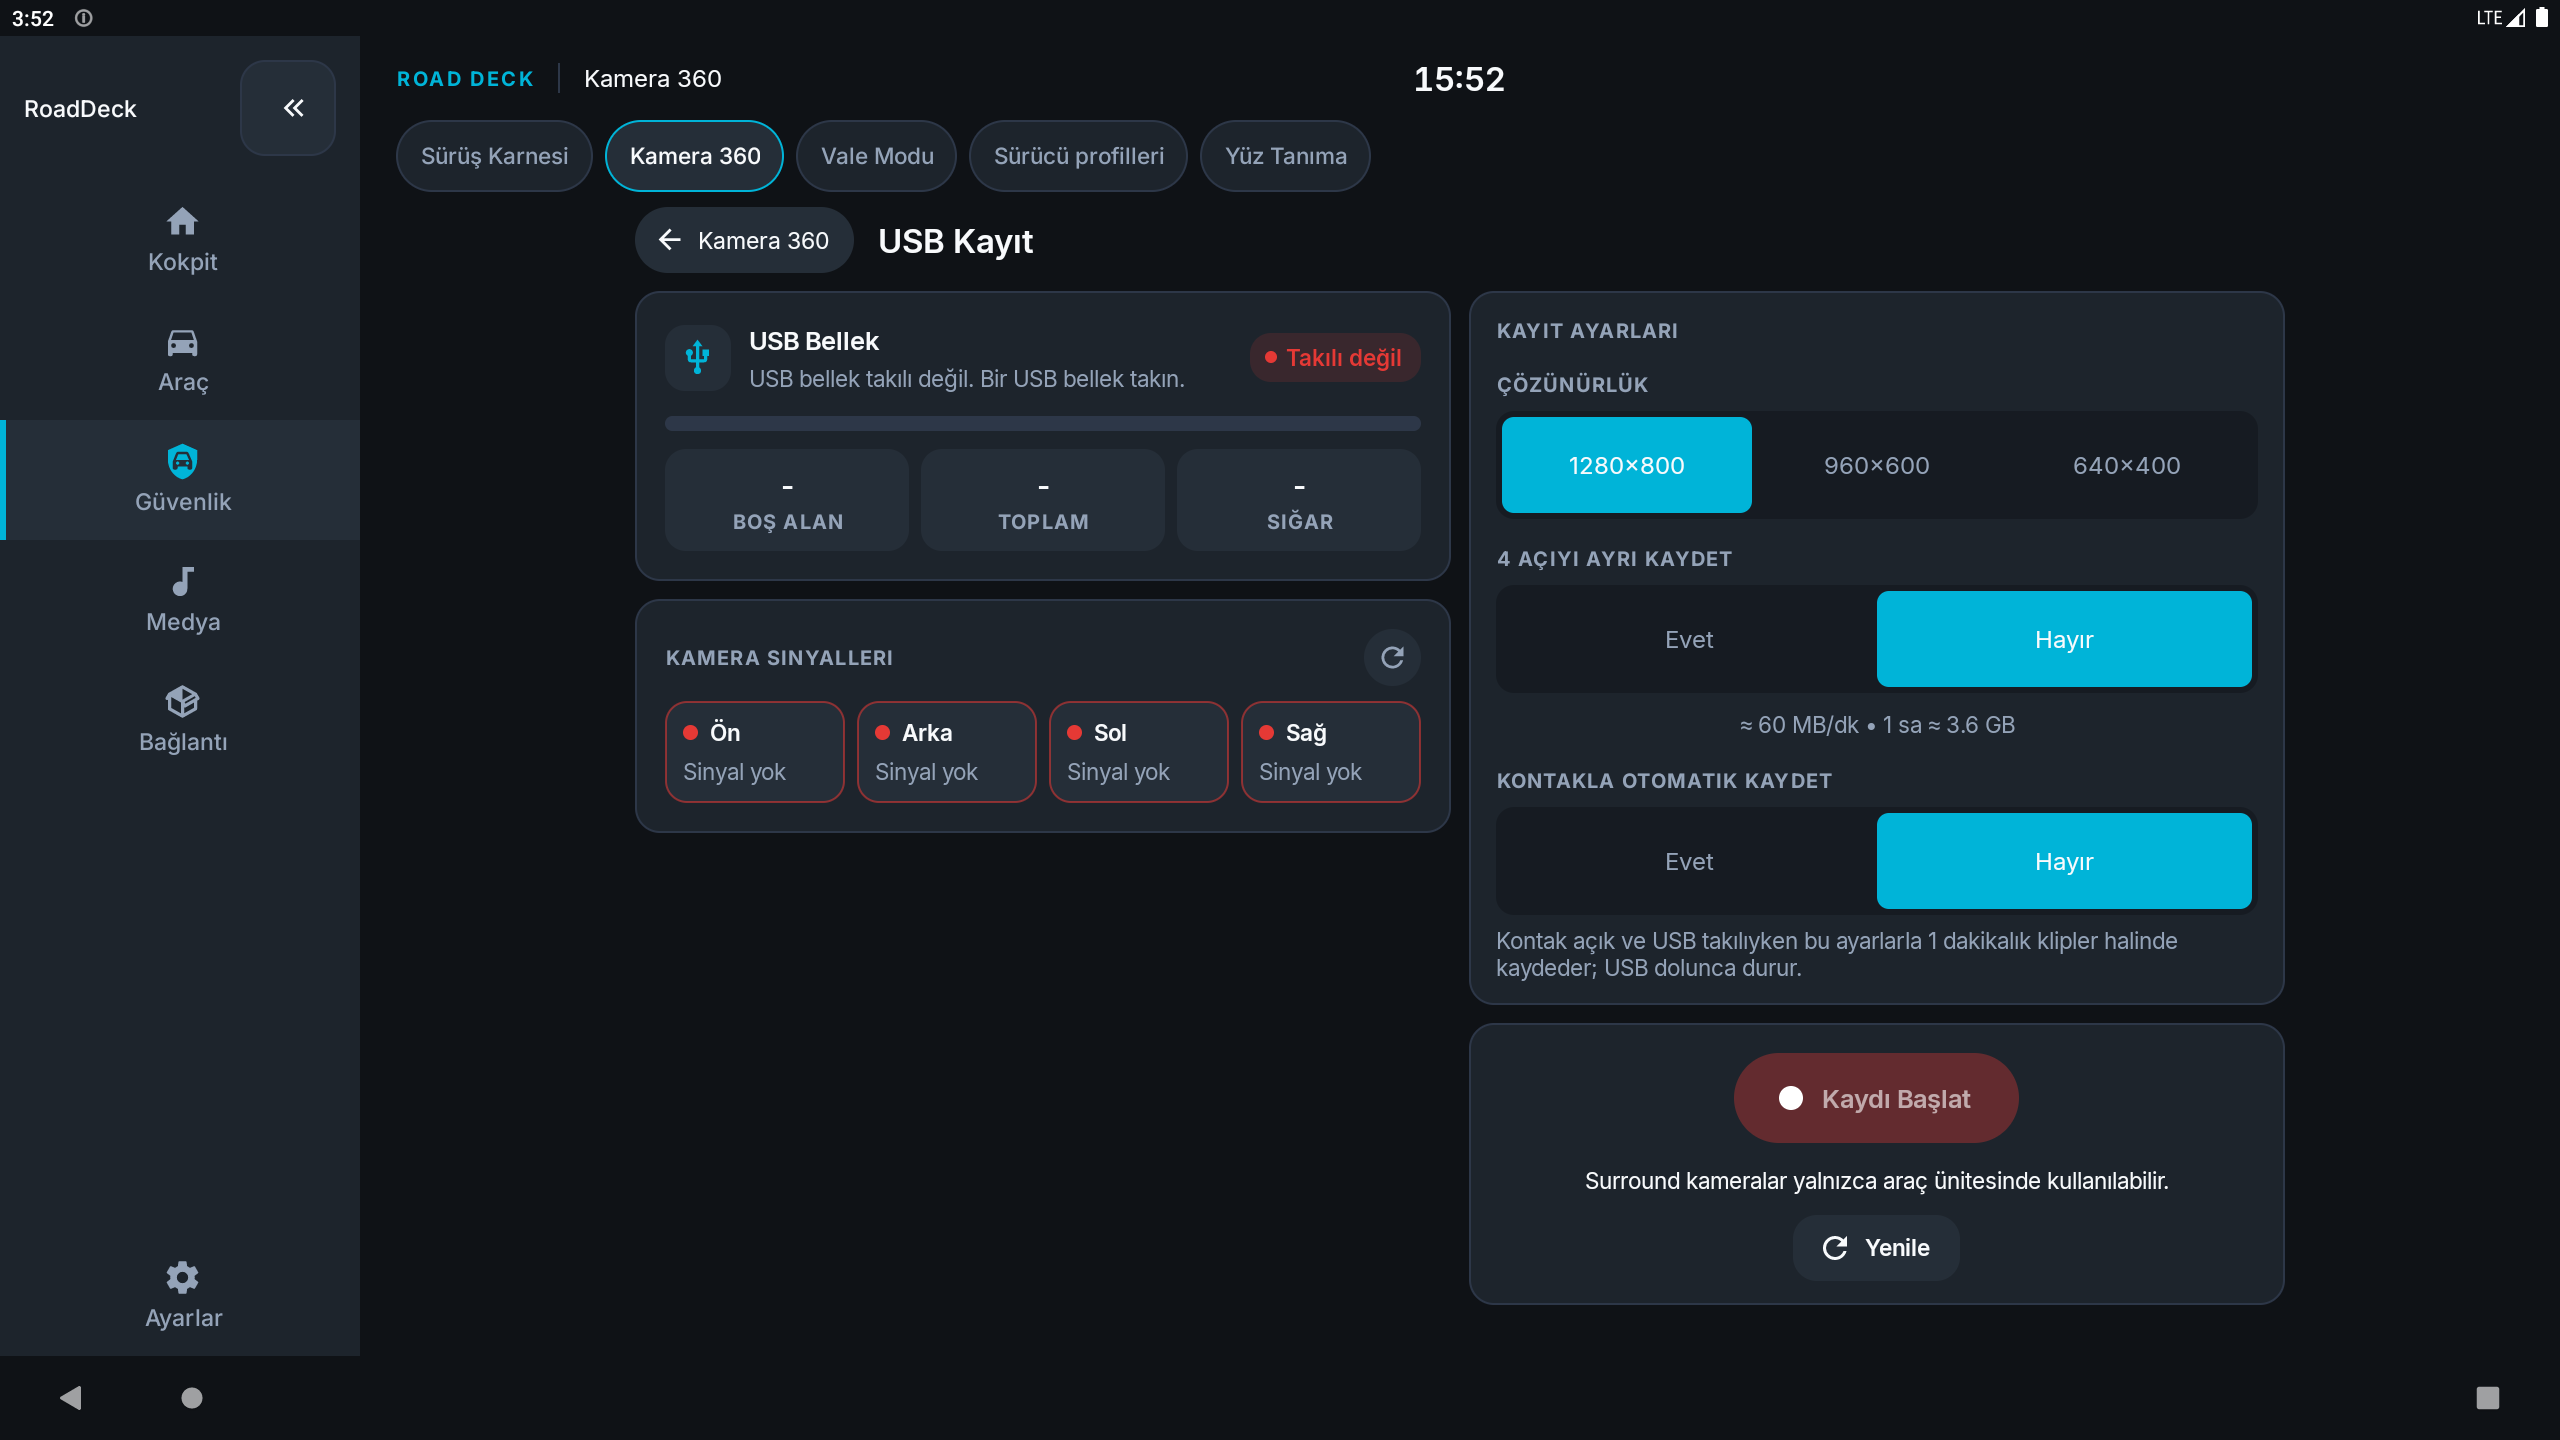
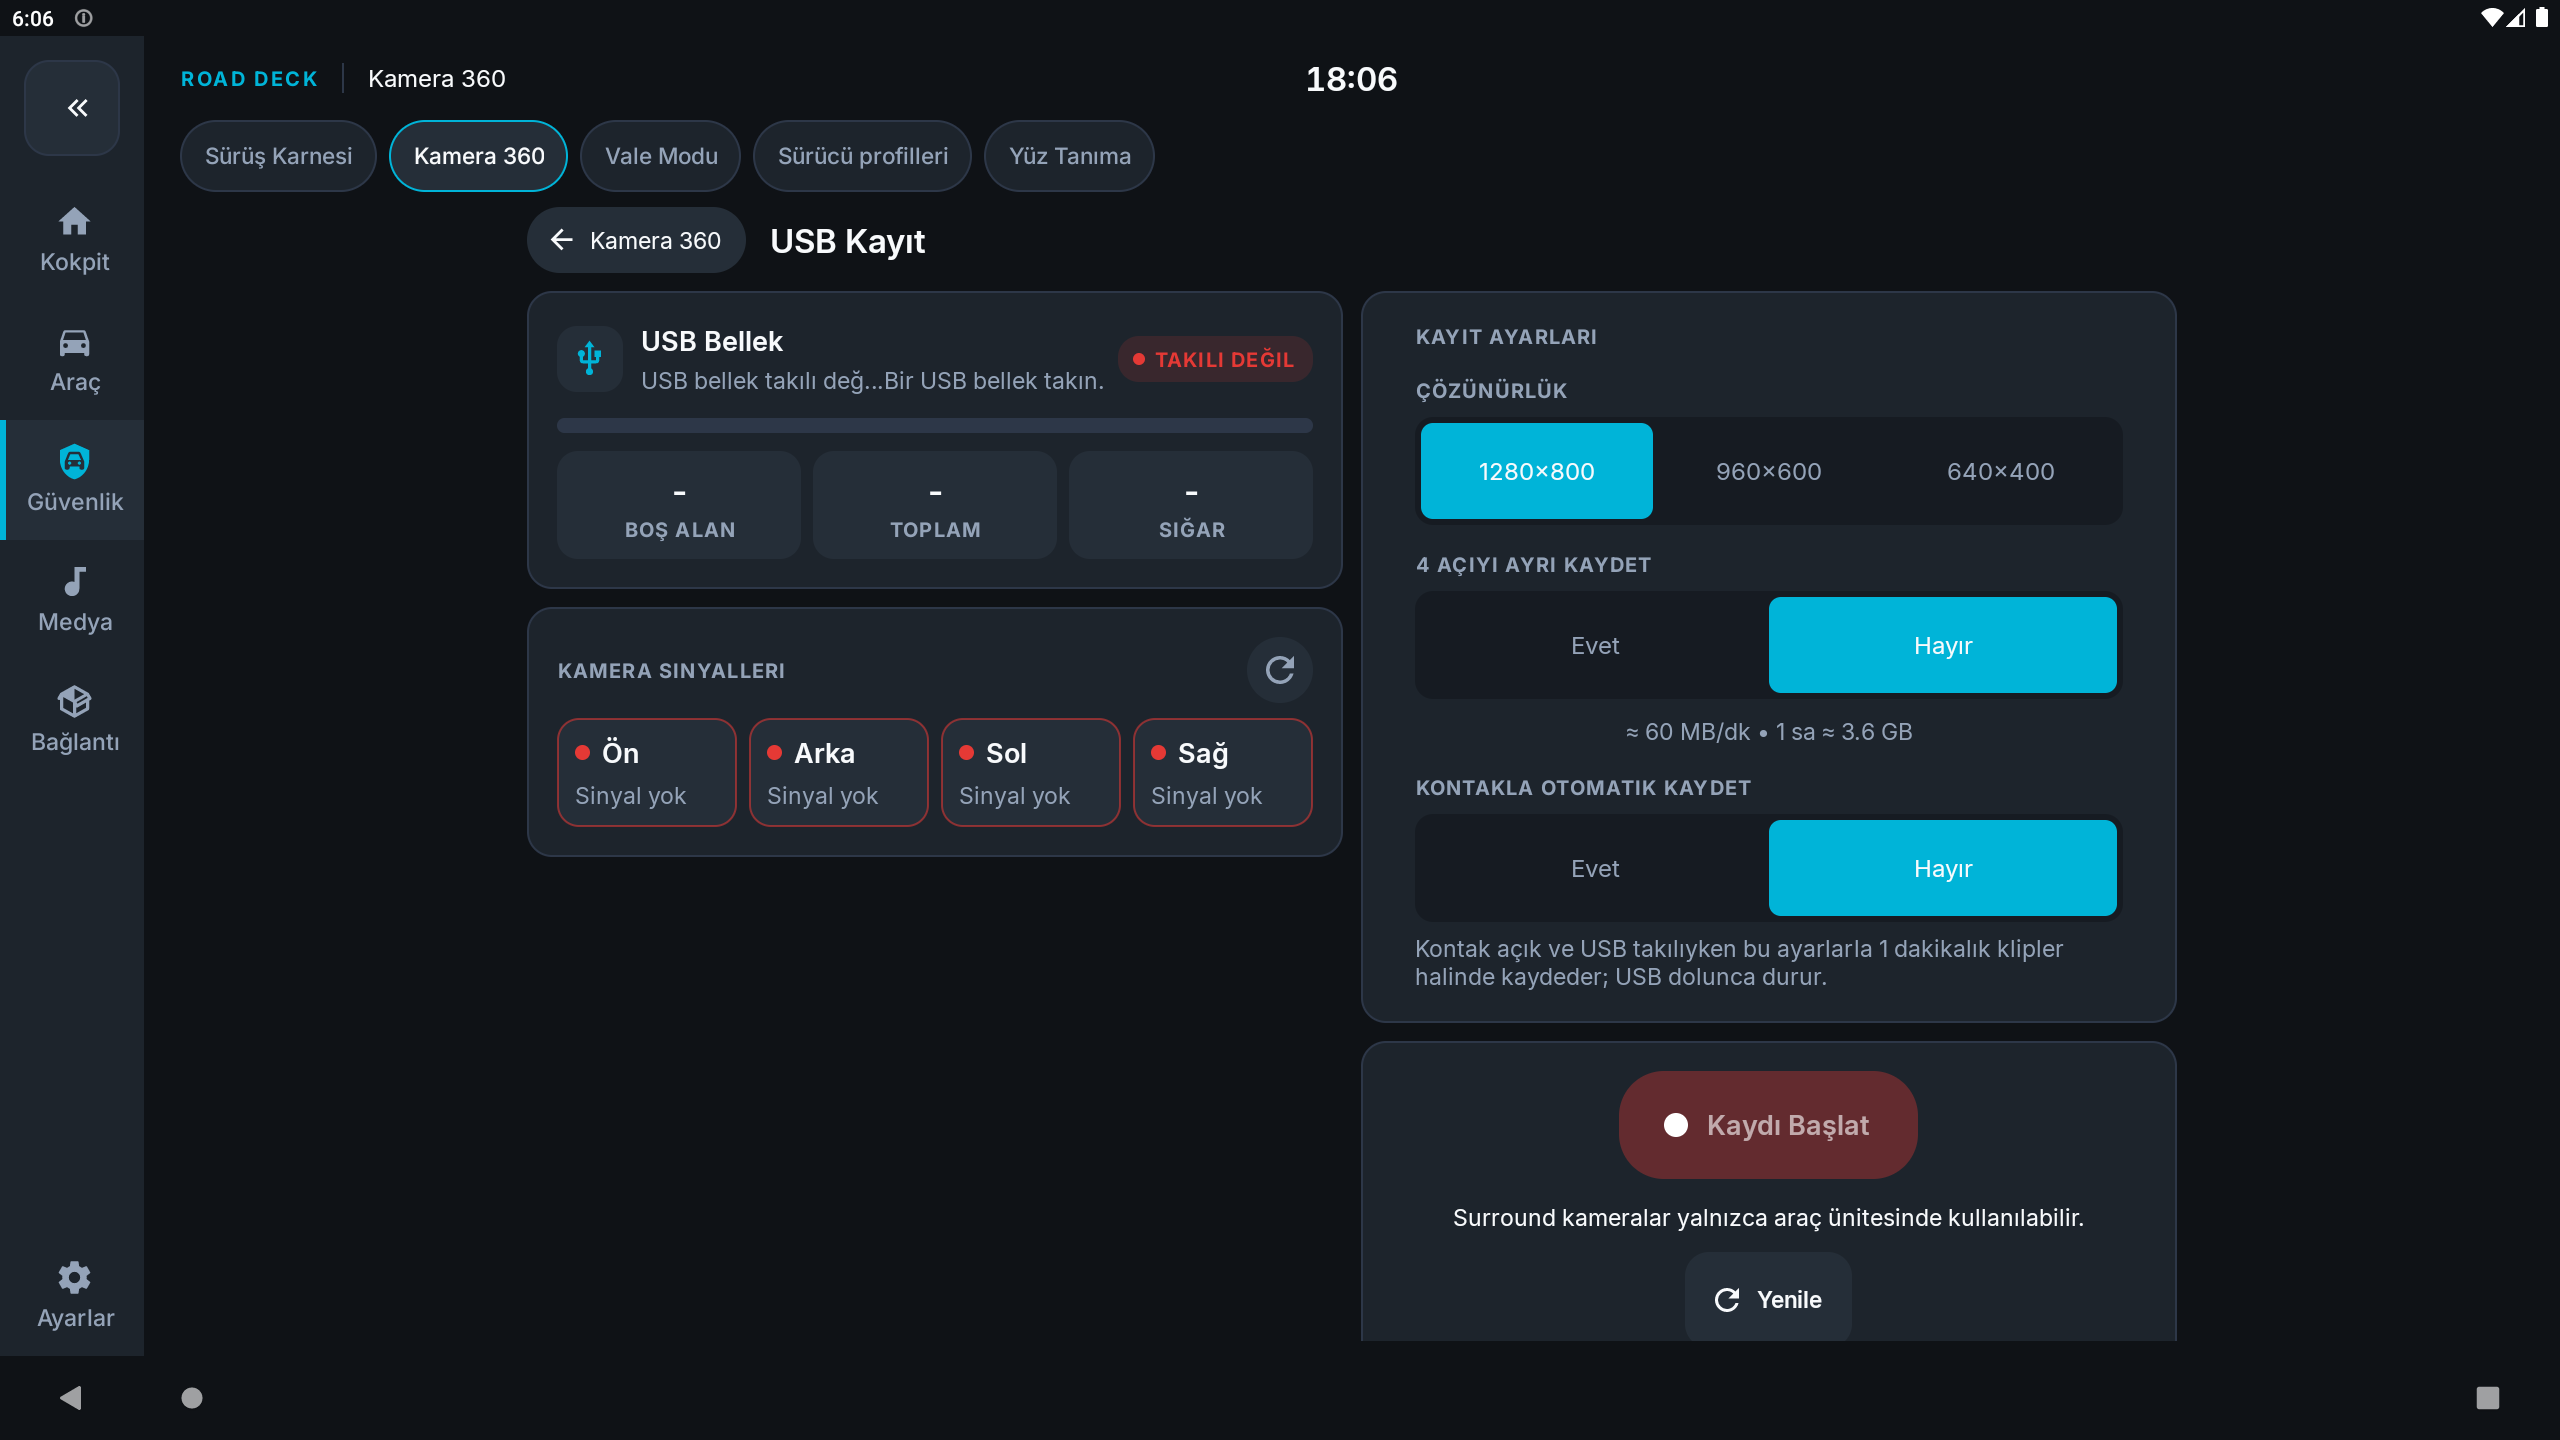
feat: Kamera 360 kayit/onizleme ic kontrol polish
- USB karti baslik/path/stat rolleri token tipografi
- Kamera sinyal tile isimleri 18sp, durum bodySm
- Kayit ayarlari/otomatik notlari bodySm
- Kayit butonu 18sp/64dp, Yenile secondary 64dp
- Header/menu callbackleri ve SurfaceView akisi korundu

diff --git a/app/src/main/java/com/mapcontrol/ui/builder/Camera360TabBuilder.java b/app/src/main/java/com/mapcontrol/ui/builder/Camera360TabBuilder.java
@@ -816,7 +816,7 @@ public class Camera360TabBuilder {
 
         statusView = new TextView(context);
         statusView.setText(R.string.camera360_hint);
-        statusView.setTextSize(13);
+        CockpitTokens.bodySm(statusView);
         statusView.setMaxLines(2);
         statusView.setEllipsize(TextUtils.TruncateAt.END);
         statusView.setTextColor(themeColor(R.color.textSecondaryCool));
@@ -940,14 +940,12 @@ public class Camera360TabBuilder {
 
         TextView heroTitle = new TextView(context);
         heroTitle.setText(R.string.camera360_usb_title2);
-        heroTitle.setTextSize(17);
-        heroTitle.setTypeface(null, Typeface.BOLD);
-        heroTitle.setTextColor(themeColor(R.color.textPrimary));
+        CockpitTokens.title(heroTitle);
         titles.addView(heroTitle);
 
         usbPathView = new TextView(context);
-        usbPathView.setTextSize(12);
-        usbPathView.setTextColor(themeColor(R.color.textSecondary));
+        CockpitTokens.mono(usbPathView);
+        usbPathView.setTextColor(CockpitTokens.color(context, R.color.ck_text_medium));
         usbPathView.setSingleLine(true);
         usbPathView.setEllipsize(TextUtils.TruncateAt.MIDDLE);
         LinearLayout.LayoutParams pathP = new LinearLayout.LayoutParams(
@@ -969,8 +967,7 @@ public class Camera360TabBuilder {
         statePill.addView(usbDot, dotP);
 
         usbStateView = new TextView(context);
-        usbStateView.setTextSize(13);
-        usbStateView.setTypeface(null, Typeface.BOLD);
+        CockpitTokens.labelCaps(usbStateView);
         statePill.addView(usbStateView);
         setDot(COLOR_IDLE);
 
@@ -1023,7 +1020,7 @@ public class Camera360TabBuilder {
         setPressableBackground(signalsRefresh, oval(themeColor(R.color.surfaceCardInner)), 19);
         signalsRefresh.setContentDescription(context.getString(R.string.camera360_refresh));
         signalsRefresh.setOnClickListener(v -> recheckCameras());
-        head.addView(signalsRefresh, new LinearLayout.LayoutParams(dp(38), dp(38)));
+        head.addView(signalsRefresh, new LinearLayout.LayoutParams(dp(44), dp(44)));
 
         LinearLayout camRow = new LinearLayout(context);
         camRow.setOrientation(LinearLayout.HORIZONTAL);
@@ -1058,16 +1055,13 @@ public class Camera360TabBuilder {
 
             TextView label = new TextView(context);
             label.setText(camShortName(cam));
-            label.setTextSize(15);
-            label.setTypeface(null, Typeface.BOLD);
-            label.setTextColor(themeColor(R.color.textPrimary));
+            CockpitTokens.title(label);
             label.setSingleLine(true);
             top.addView(label);
 
             TextView state = new TextView(context);
             state.setText(R.string.camera360_sig_wait);
-            state.setTextSize(12);
-            state.setTextColor(themeColor(R.color.textSecondary));
+            CockpitTokens.bodySm(state);
             state.setSingleLine(true);
             state.setEllipsize(TextUtils.TruncateAt.END);
             LinearLayout.LayoutParams stateP = new LinearLayout.LayoutParams(
@@ -1081,7 +1075,6 @@ public class Camera360TabBuilder {
 
     private LinearLayout buildSettingsCard(boolean wide) {
         LinearLayout card = card();
-        card.setPadding(dp(2), dp(16), dp(2), dp(14));
         TextView label = sectionLabel(R.string.camera360_settings_title);
         int labelInset = UiStyles.dimenPx(context, R.dimen.spacing_medium);
         label.setPadding(labelInset, 0, labelInset, 0);
@@ -1154,8 +1147,7 @@ public class Camera360TabBuilder {
         hideSegmentHelp(sepColumn);
 
         estimateView = new TextView(context);
-        estimateView.setTextSize(13);
-        estimateView.setTextColor(themeColor(R.color.textSecondaryCool));
+        CockpitTokens.bodySm(estimateView);
         estimateView.setGravity(Gravity.CENTER);
         LinearLayout.LayoutParams estP = new LinearLayout.LayoutParams(
                 LinearLayout.LayoutParams.MATCH_PARENT, LinearLayout.LayoutParams.WRAP_CONTENT);
@@ -1180,13 +1172,14 @@ public class Camera360TabBuilder {
         hideSegmentHelp(usbAutoColumn);
         TextView autoNote = new TextView(context);
         autoNote.setText(R.string.camera360_usb_auto_note);
-        autoNote.setTextSize(12);
-        autoNote.setTextColor(themeColor(R.color.textSecondaryCool));
+        CockpitTokens.bodySm(autoNote);
+        autoNote.setTextColor(CockpitTokens.color(context, R.color.ck_text_medium));
         autoNote.setPadding(labelInset, dp(6), labelInset, 0);
         usbAutoColumn.addView(autoNote);
         usbAutoStatus = new TextView(context);
-        usbAutoStatus.setTextSize(13);
-        usbAutoStatus.setTypeface(null, Typeface.BOLD);
+        CockpitTokens.bodySm(usbAutoStatus);
+        usbAutoStatus.setTypeface(CockpitTokens.inter(context,
+                CockpitTokens.WEIGHT_SEMIBOLD));
         usbAutoStatus.setPadding(labelInset, dp(6), labelInset, 0);
         usbAutoStatus.setVisibility(View.GONE);
         usbAutoColumn.addView(usbAutoStatus);
@@ -1223,8 +1216,8 @@ public class Camera360TabBuilder {
 
         recButton = new Button(context);
         recButton.setAllCaps(false);
-        recButton.setTextSize(17);
-        recButton.setTypeface(null, Typeface.BOLD);
+        recButton.setTextSize(18);
+        recButton.setTypeface(CockpitTokens.inter(context, CockpitTokens.WEIGHT_SEMIBOLD));
         recButton.setTextColor(new ColorStateList(
                 new int[][]{{-android.R.attr.state_enabled}, {}},
                 new int[]{0x99FFFFFF, Color.WHITE}));
@@ -1241,12 +1234,12 @@ public class Camera360TabBuilder {
         setRecButtonRecording(false);
         recButton.setOnClickListener(v -> toggleRecording());
         card.addView(recButton, new LinearLayout.LayoutParams(
-                LinearLayout.LayoutParams.WRAP_CONTENT, dp(60)));
+                LinearLayout.LayoutParams.WRAP_CONTENT,
+                CockpitTokens.dim(context, R.dimen.ck_touch_primary)));
 
         usbBlockedNote = new TextView(context);
         usbBlockedNote.setText(R.string.camera360_usb_blocked_internal);
-        usbBlockedNote.setTextSize(13);
-        usbBlockedNote.setTypeface(null, Typeface.BOLD);
+        CockpitTokens.bodySm(usbBlockedNote);
         usbBlockedNote.setGravity(Gravity.CENTER);
         usbBlockedNote.setTextColor(COLOR_WAIT);
         usbBlockedNote.setPadding(dp(12), dp(8), dp(12), dp(8));
@@ -1259,7 +1252,7 @@ public class Camera360TabBuilder {
 
         recStatusView = new TextView(context);
         recStatusView.setText(R.string.camera360_rec_hint);
-        recStatusView.setTextSize(14);
+        CockpitTokens.bodySm(recStatusView);
         recStatusView.setGravity(Gravity.CENTER);
         recStatusView.setTextColor(themeColor(R.color.textPrimary));
         LinearLayout.LayoutParams rsp = new LinearLayout.LayoutParams(
@@ -1270,15 +1263,16 @@ public class Camera360TabBuilder {
         Button refresh = new Button(context);
         refresh.setText(R.string.camera360_refresh);
         refresh.setAllCaps(false);
-        refresh.setTextSize(14);
-        refresh.setTextColor(themeColor(R.color.textPrimary));
-        UiStyles.styleOemButton(refresh, themeColor(R.color.buttonSecondaryMuted));
+        refresh.setTextSize(15);
+        refresh.setTextColor(CockpitTokens.color(context, R.color.ck_text_high));
+        UiStyles.styleOemButton(refresh, CockpitTokens.color(context, R.color.ck_surface_2));
         UiStyles.setButtonStartIconTinted(refresh, R.drawable.ic_mdi_refresh,
                 themeColor(R.color.textPrimary), dp(8));
         refresh.setStateListAnimator(null);
         refresh.setPadding(dp(16), 0, dp(20), 0);
         LinearLayout.LayoutParams rp = new LinearLayout.LayoutParams(
-                LinearLayout.LayoutParams.WRAP_CONTENT, dp(44));
+                LinearLayout.LayoutParams.WRAP_CONTENT,
+                CockpitTokens.dim(context, R.dimen.ck_touch_min));
         rp.setMargins(0, dp(12), 0, 0);
         refresh.setOnClickListener(v -> refreshUsbInfo());
         card.addView(refresh, rp);
@@ -1313,19 +1307,14 @@ public class Camera360TabBuilder {
         parent.addView(box, boxP);
         TextView value = new TextView(context);
         value.setText("-");
-        value.setTextSize(19);
-        value.setTypeface(null, Typeface.BOLD);
+        CockpitTokens.headlineSm(value);
         value.setGravity(Gravity.CENTER);
         value.setSingleLine(true);
-        value.setTextColor(themeColor(R.color.textPrimary));
         box.addView(value);
         TextView label = new TextView(context);
         label.setText(labelRes);
-        label.setTextSize(11);
-        label.setAllCaps(true);
-        label.setLetterSpacing(0.06f);
+        CockpitTokens.labelCaps(label);
         label.setGravity(Gravity.CENTER);
-        label.setTextColor(themeColor(R.color.textSecondaryCool));
         box.addView(label);
         return value;
     }
